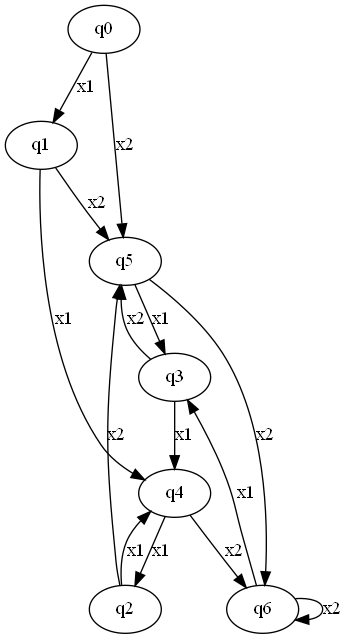
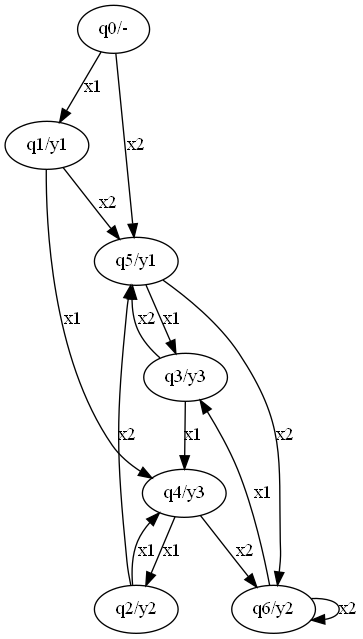
add draw application

diff --git a/draw/draw/draw.py b/draw/draw/draw.py
@@ -1,0 +1,93 @@
+import sys
+import csv
+import os
+import networkx as nx
+from enum import Enum
+
+class Types(str, Enum):
+    Mealy = 'mealy'
+    Moore = 'moore'
+
+OUT_FORMATS = [
+    'bmp', 'fig', 'gif', 'jpe', 'jpeg', 
+    'jpg', 'json', 'pdf', 'pic', 'plain',
+    'png', 'svg', 'tif', 'tiff'
+]
+
+def read_mealy(file):
+    with open(file, newline='\n') as f:
+        reader = csv.reader(f, delimiter=';')
+        graph = nx.DiGraph()
+        states = reader.__next__()[1:]
+        for line in reader:
+            in_signal = line[0]  
+            transitions = line[1:]
+            for transition, from_state in zip(transitions, states):
+                to_state, out_signal = transition.split('/')
+                graph.add_edge(from_state, to_state, in_signal=in_signal, out_signal=out_signal)
+        return graph
+
+def read_moore(file):
+    with open(file, newline='\n') as f:
+        reader = csv.reader(f, delimiter=';')
+        graph = nx.DiGraph()
+        out_signals = reader.__next__()[1:]
+        states = reader.__next__()[1:]
+        for state, out_signal in zip(states, out_signals):
+            graph.add_node(state, out_signal=out_signal)
+        for line in reader:
+            in_signal = line[0]
+            to_states = line[1:]
+            for from_state, to_state in zip(states, to_states):
+                graph.add_edge(from_state, to_state, in_signal=in_signal)
+        return graph
+
+def read_state_machine(option, file):
+    if option == Types.Mealy.value:
+        return read_mealy(file)
+    else:
+        return read_moore(file)
+
+def draw_graph(path, graph, option):
+    for state_from, state_to, signals in graph.edges(data=True):
+        in_signal = signals.get('in_signal')
+        out_signal = signals.get('out_signal') if option == Types.Mealy.value else graph.nodes[state_to]['out_signal']
+        signals['label'] = f'{in_signal}/{out_signal}' if option == Types.Mealy.value else in_signal
+    
+    if option == Types.Moore.value:
+        states_mapping = {}
+        for state, out in graph.nodes(data=True):
+            out_signal = out['out_signal']
+            states_mapping.update({state: f'{state}/{out_signal}'})
+        graph = nx.relabel_nodes(graph, states_mapping)
+        
+
+    A = nx.nx_agraph.to_agraph(graph)
+    A.layout(prog='dot')
+    A.draw(path)
+
+def exit_help():
+    print('Invalid arguments')
+    print('draw.py <mealy|moore> <input file> <output file>')
+    sys.exit(0)
+
+def execute(args):
+    if not os.path.isfile(args[1]):
+        print(f'No such file: "{args[1]}"')
+        sys.exit(0)
+
+    if not args[2].endswith(tuple(OUT_FORMATS)):
+        out_formats = ', '.join(OUT_FORMATS)
+        print(f'Output format not recognized. Use one of: {out_formats}')
+        sys.exit(0)
+
+    graph = read_state_machine(args[0], args[1])
+    draw_graph(args[2], graph, args[0])
+
+if __name__ == '__main__':
+    args = sys.argv[1:]
+
+    if len(args) == 3 and (args[0] == Types.Mealy.value or args[0] == Types.Moore.value):
+        execute(args)
+    else:
+        exit_help()   

diff --git a/test1/test1/test1.py b/test1/test1/test1.py
@@ -57,6 +57,13 @@ def draw_graph(path, graph, option):
         out_signal = signals.get('out_signal') if option == Types.Mealy.value else graph.nodes[state_to]['out_signal']
         signals['label'] = f'{in_signal}/{out_signal}' if option == Types.Mealy.value else in_signal
 
+    if option == Types.Moore.value:
+        states_mapping = {}
+        for state, out in graph.nodes(data=True):
+            out_signal = out['out_signal']
+            states_mapping.update({state: f'{state}/{out_signal}'})
+        graph = nx.relabel_nodes(graph, states_mapping)
+
     A = nx.nx_agraph.to_agraph(graph)
     A.layout(prog='dot')
     A.draw(path)

diff --git a/test2/test2/test2.py b/test2/test2/test2.py
@@ -57,6 +57,13 @@ def draw_graph(path, graph, option):
         out_signal = signals.get('out_signal') if option == Types.Mealy.value else graph.nodes[state_to]['out_signal']
         signals['label'] = f'{in_signal}/{out_signal}' if option == Types.Mealy.value else in_signal
 
+    if option == Types.Moore.value:
+        states_mapping = {}
+        for state, out in graph.nodes(data=True):
+            out_signal = out['out_signal']
+            states_mapping.update({state: f'{state}/{out_signal}'})
+        graph = nx.relabel_nodes(graph, states_mapping)
+
     A = nx.nx_agraph.to_agraph(graph)
     A.layout(prog='dot')
     A.draw(path)
